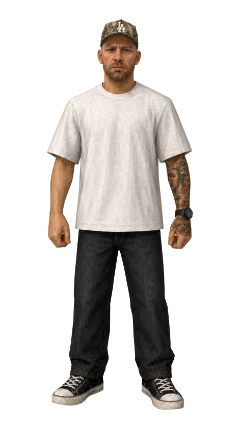
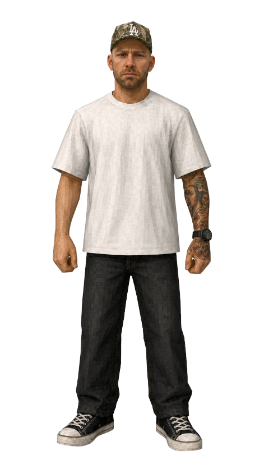
tweak: soften character pixelation another 10% (264px source)
Claude-Session: https://claude.ai/code/session_014x2gCrybHgCisdMqXnYPND

diff --git a/data/projects.ts b/data/projects.ts
@@ -266,8 +266,8 @@ export const desk = {
         src: "/objects/character.png",
         alt: "Lukáš Homér as a 3D game character",
         // pixelated source (regenerate larger/smaller to tune the effect)
-        width: 240,
-        height: 426,
+        width: 264,
+        height: 469,
         /** Optional drop-in for the parked 3D scene (components/character-3d.tsx). */
         glb: "/objects/character.glb",
     },